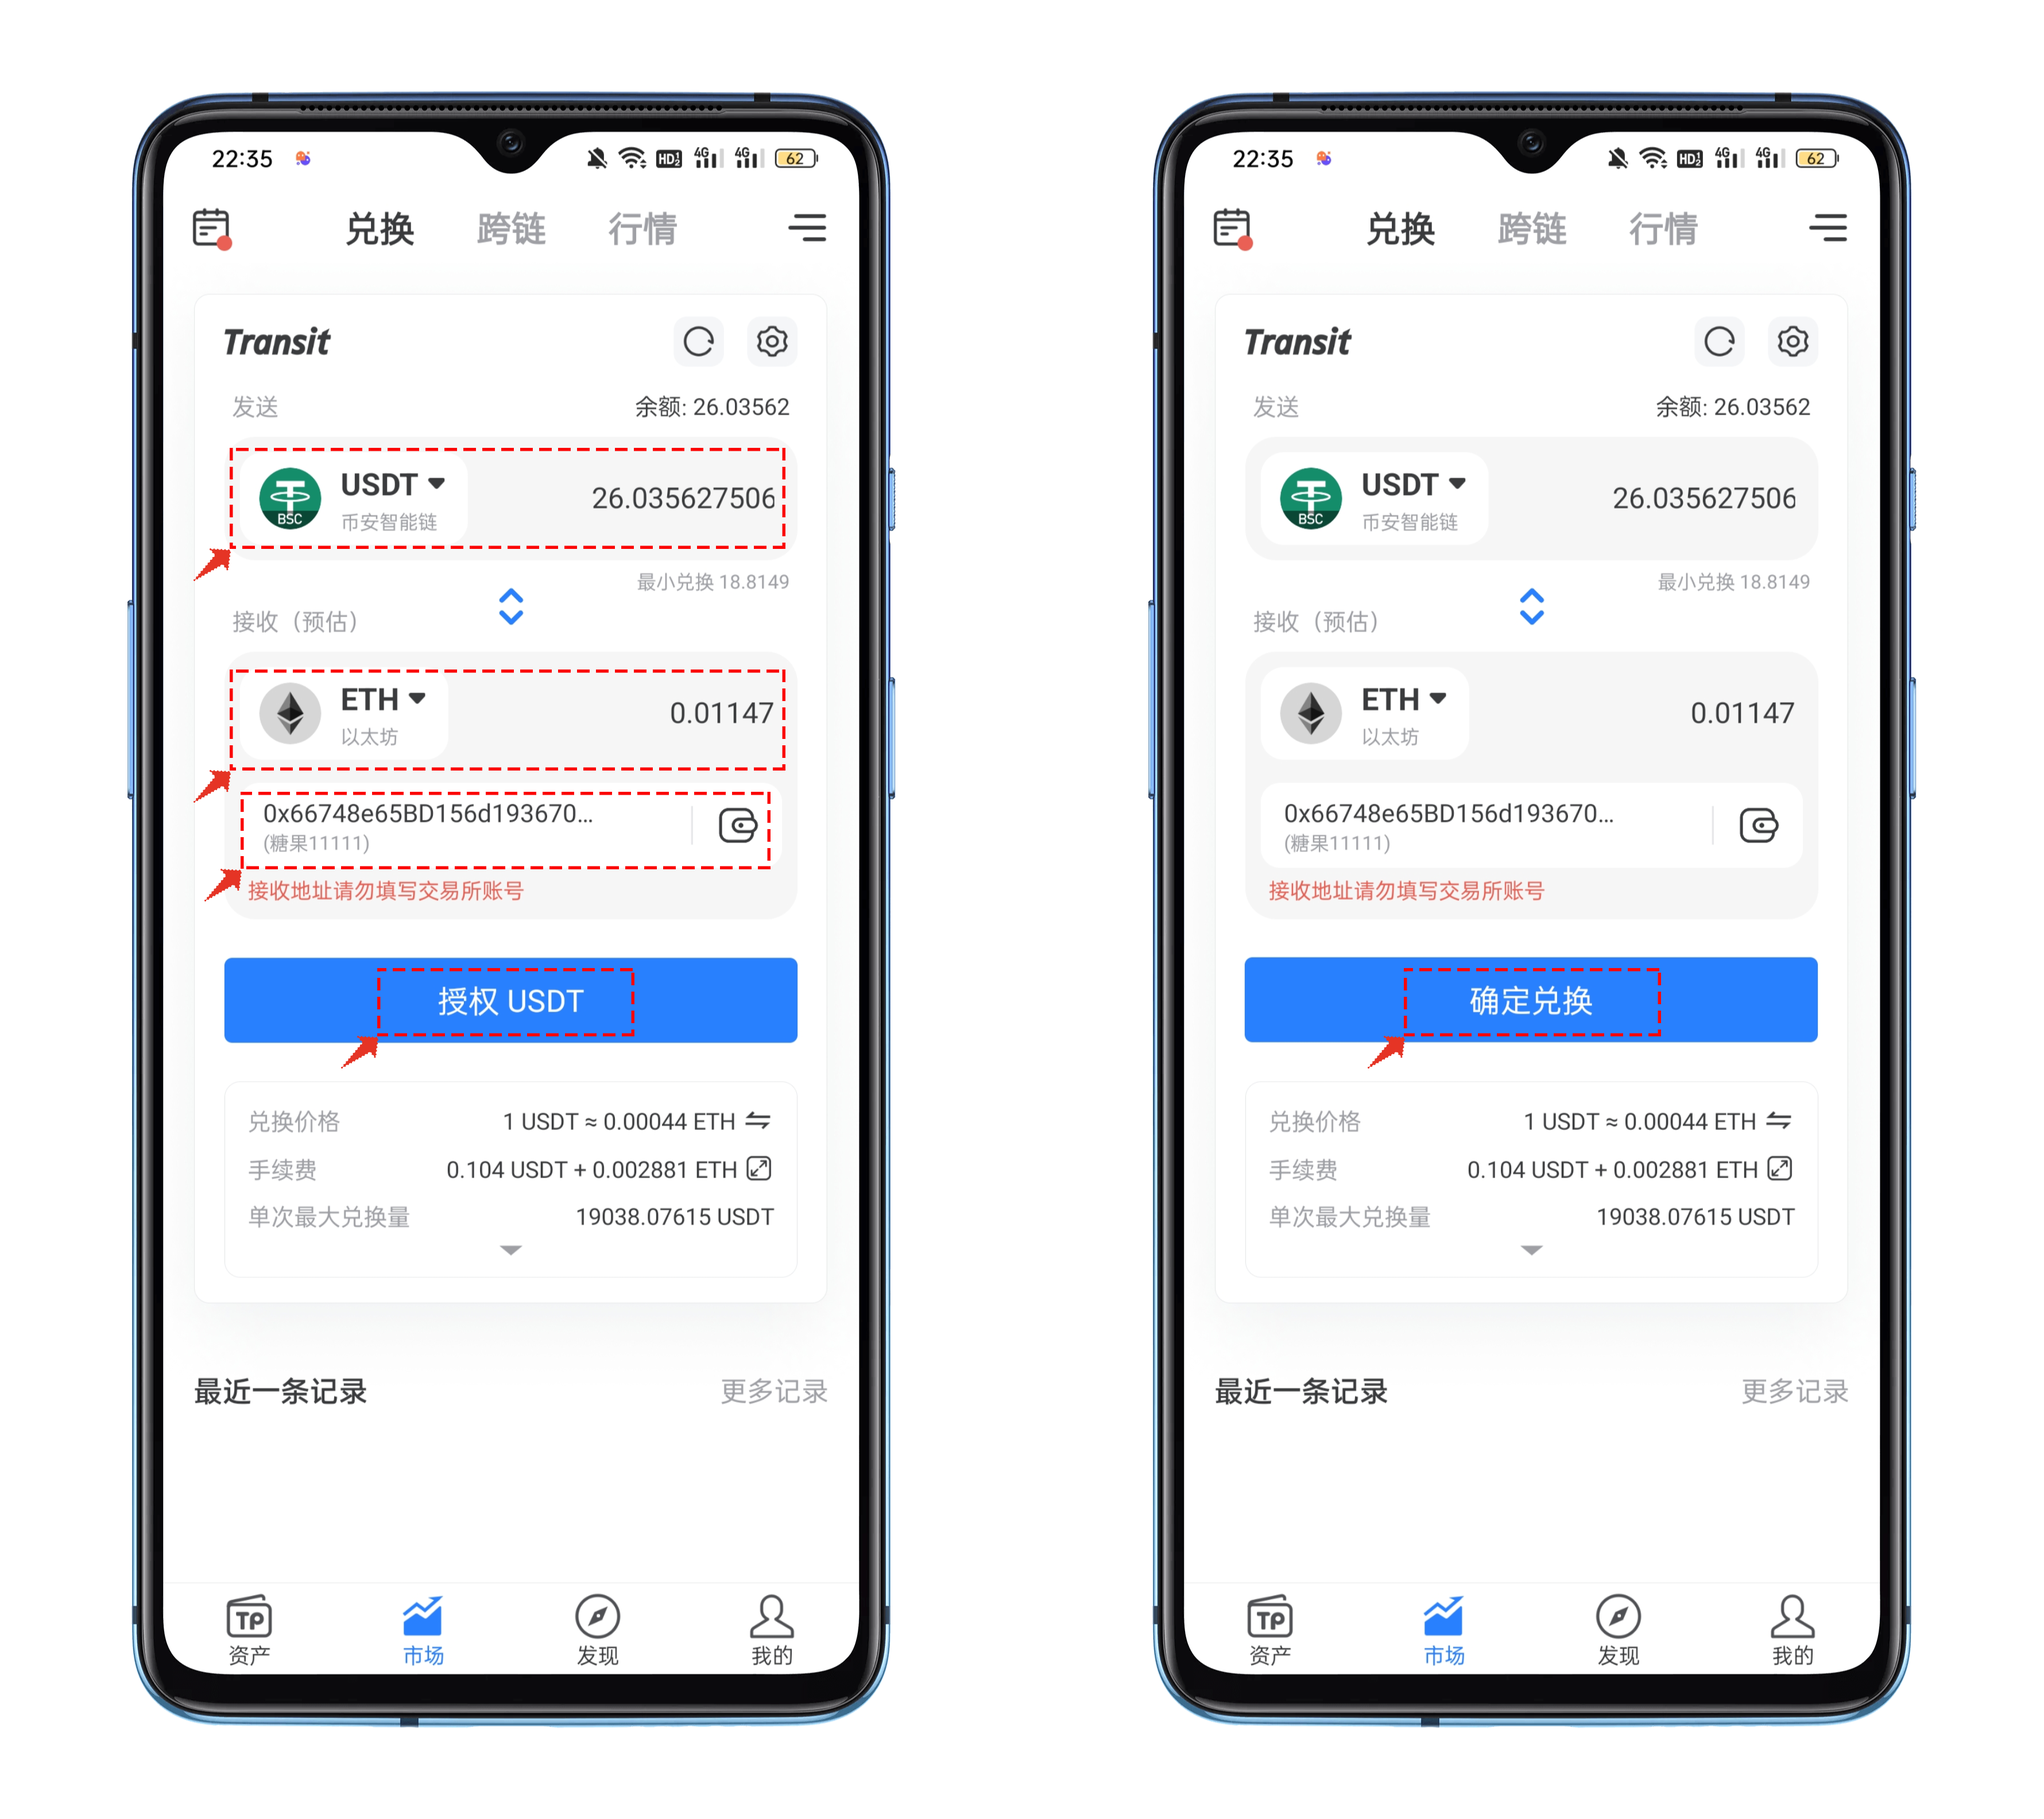
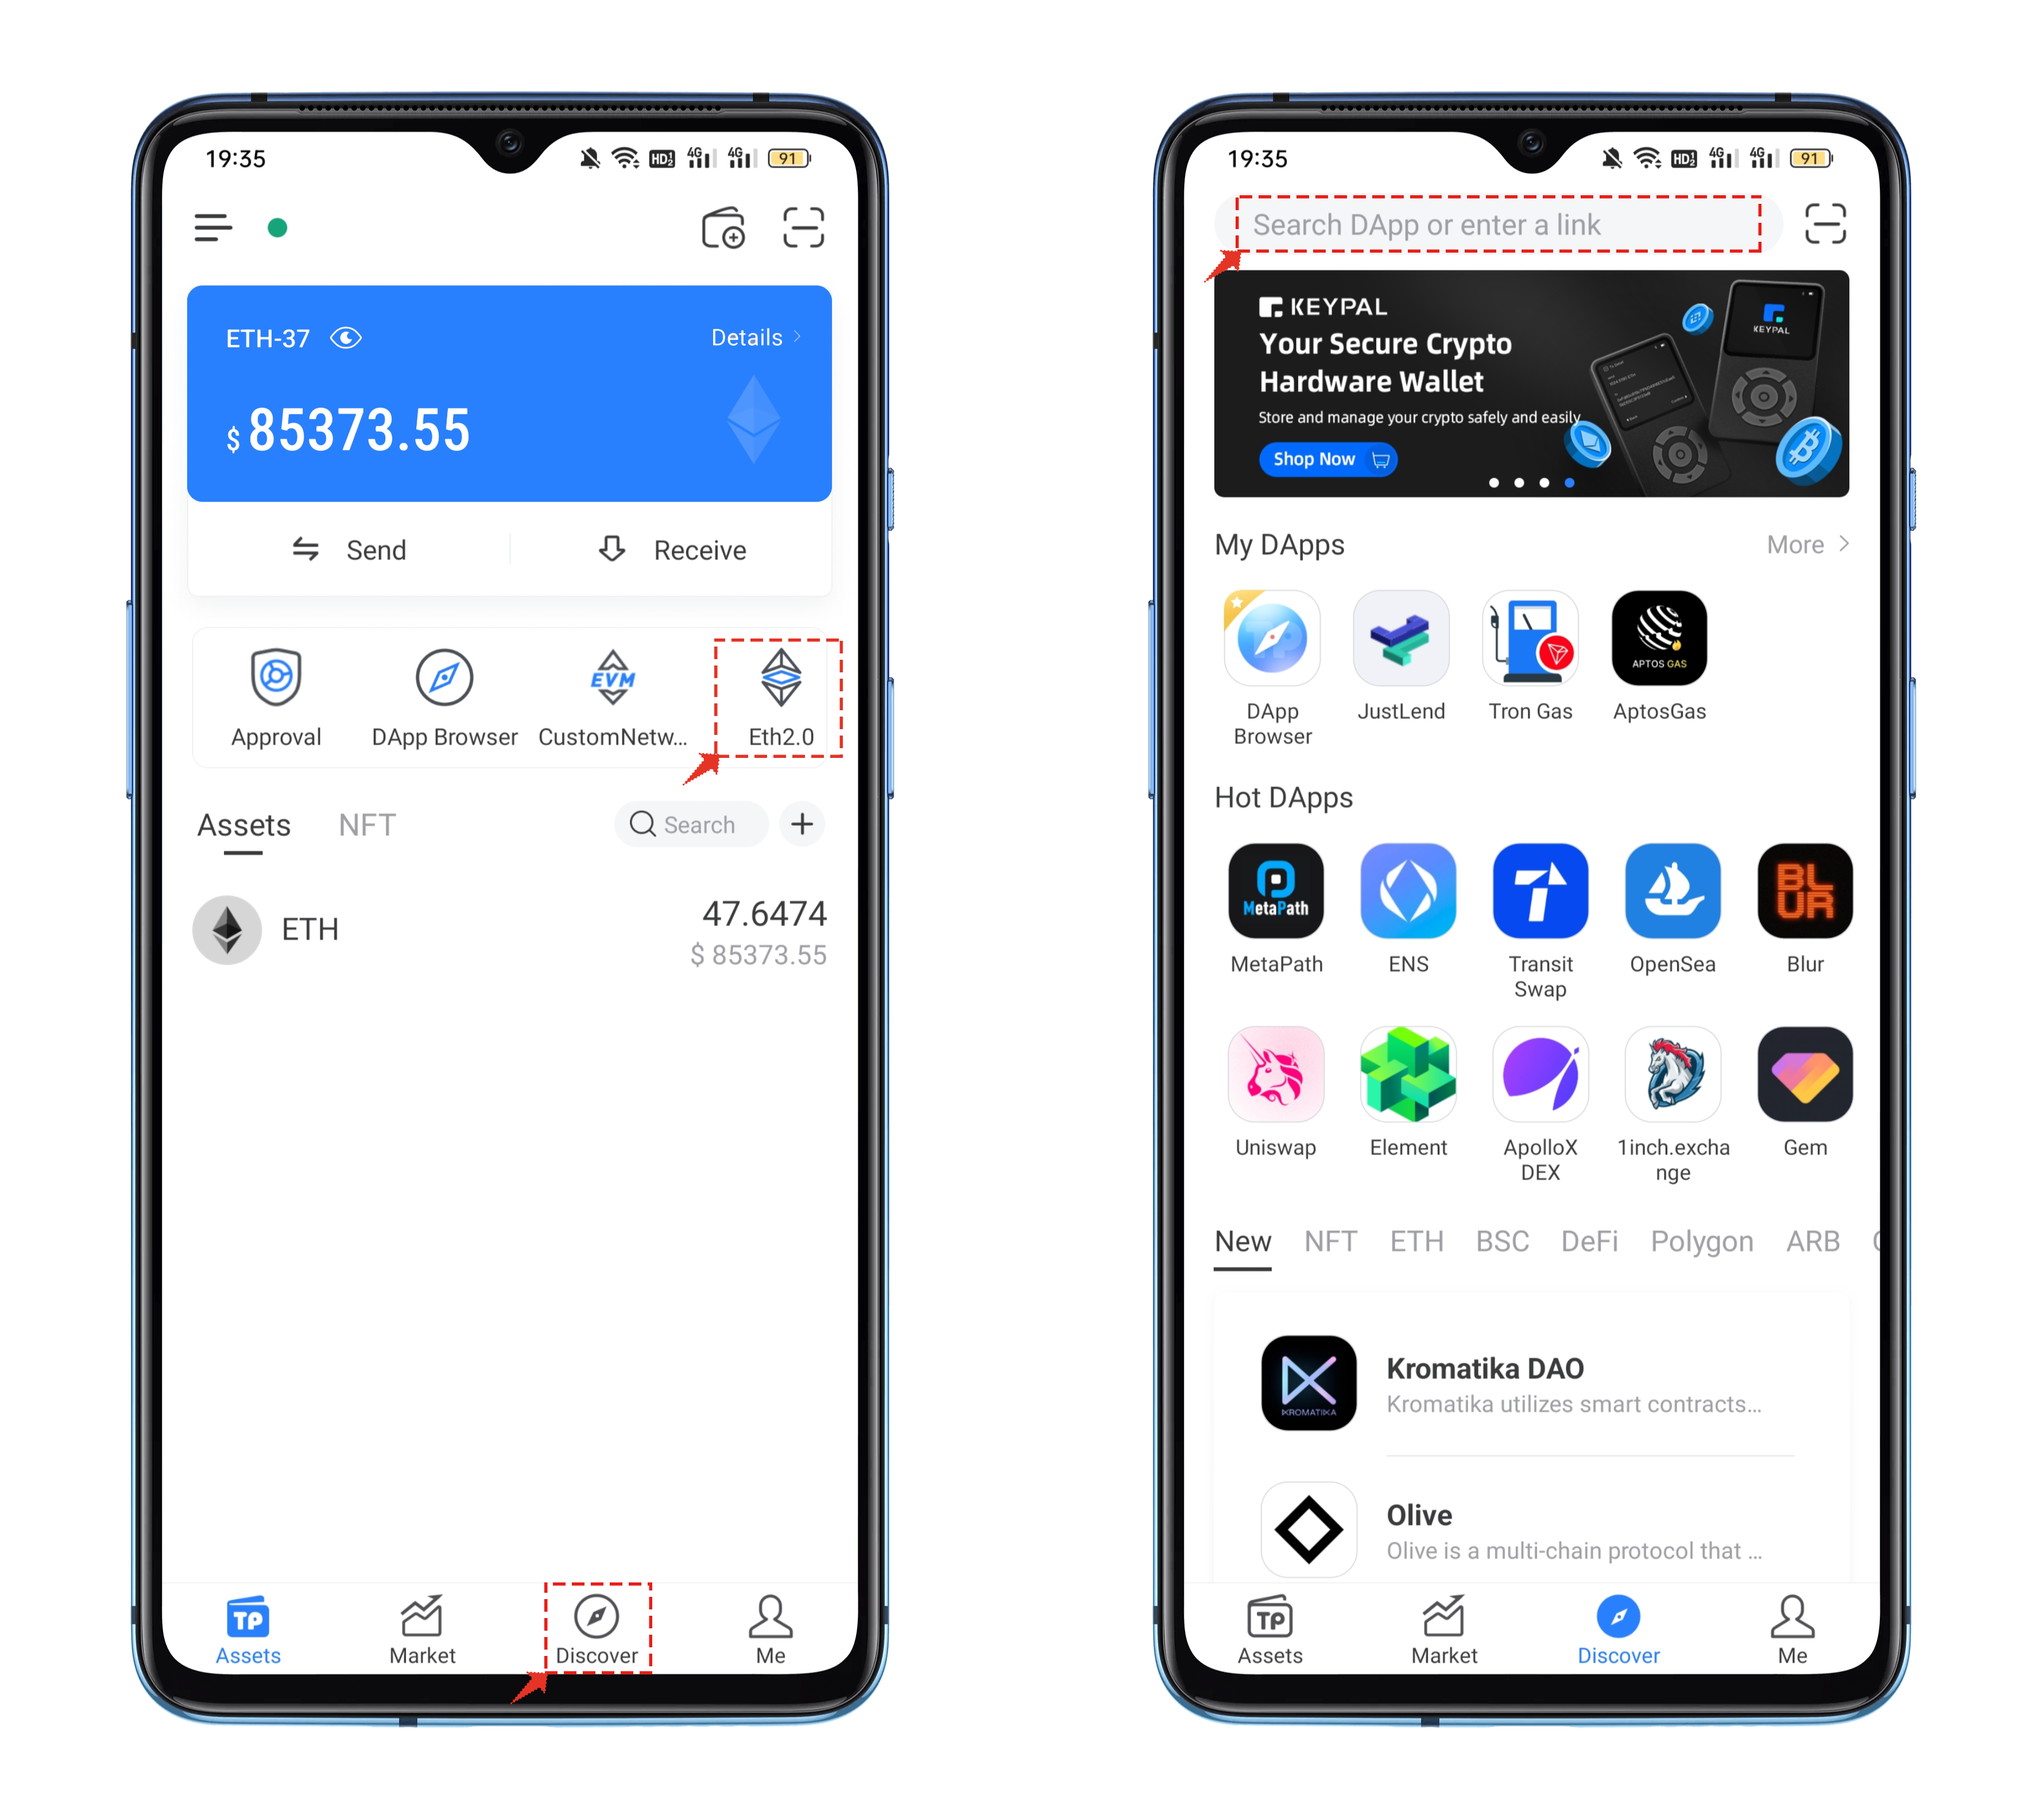
GITBOOK-1195: change request with no subject merged in GitBook

diff --git a/faq/ethwallet/buy-eth.md b/faq/ethwallet/buy-eth.md
@@ -14,7 +14,7 @@
 
 首次使用除主网币的代币进行兑换，在这里都需要执行一次授权操作，授权的数量可以自己合理设置，完成授权后，再次按照兑出、兑入的代币、数量并设置好收款地址并点击【确认兑换】后进行签名就可以获得ETH代币。（Transit支持同链和跨链兑换服务）
 
-<figure><img src="../../.gitbook/assets/1 (2).png" alt=""><figcaption></figcaption></figure>
+<figure><img src="../../.gitbook/assets/1 (2) (5).png" alt=""><figcaption></figcaption></figure>
 
 ### <mark style="color:orange;">通过Binance购买ETH代币</mark>
 

diff --git a/faq/ethwallet/eth2.0/node-staking.md b/faq/ethwallet/eth2.0/node-staking.md
@@ -4,7 +4,7 @@
 
 1、打开TokenPocket，点击【发现】，顶部搜索【Eth2.0节点】并打开应用。
 
-<figure><img src="../../../.gitbook/assets/1 (1) (1).png" alt=""><figcaption></figcaption></figure>
+<figure><img src="../../../.gitbook/assets/1 (2).png" alt=""><figcaption></figcaption></figure>
 
 #### 2、自托管质押
 
